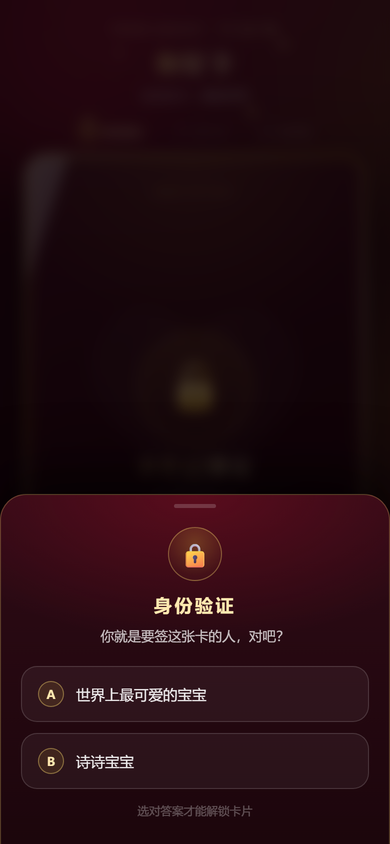
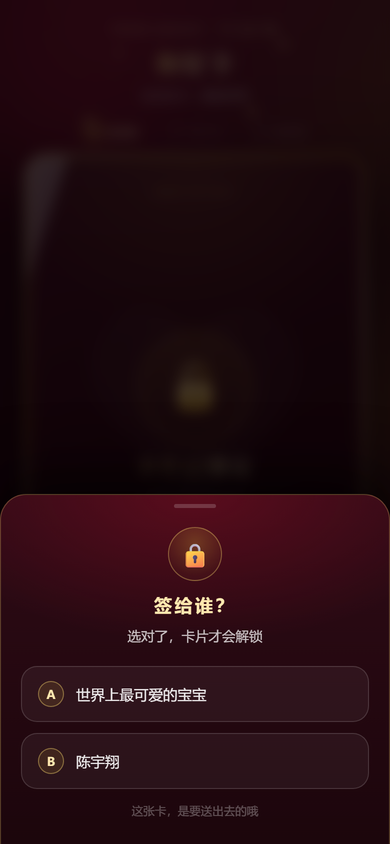
feat: 第一关改成「签给谁？」—— 让她亲手选中收卡人，不再是没意义的身份验证

Changed region(s): [[0.2462, 0.7085, 0.7077, 0.7701], [0.3385, 0.955, 0.6769, 0.9858], [0.1846, 0.8934, 0.3385, 0.9242]]

diff --git a/src/components/VerifyDialog.vue b/src/components/VerifyDialog.vue
@@ -1,6 +1,6 @@
 <script setup lang="ts">
-import { computed, ref, watch } from 'vue'
-import { ISSUER_NAME } from '../cardSpec'
+import { ref, watch } from 'vue'
+import { HOLDER_NAME } from '../cardSpec'
 
 const props = defineProps<{ open: boolean }>()
 const emit = defineEmits<{
@@ -8,16 +8,17 @@ const emit = defineEmits<{
   (e: 'pass'): void
 }>()
 
+/**
+ * 第一关：让她亲手把这张卡指定给收卡人。
+ * 「世界上最可爱的宝宝」是逗趣的干扰项 —— 选了会被温柔地纠正。
+ */
 const OPTIONS = [
   { key: 'A', text: '世界上最可爱的宝宝', correct: false },
-  { key: 'B', text: ISSUER_NAME, correct: true }
+  { key: 'B', text: HOLDER_NAME, correct: true }
 ]
 
-const ERROR_TEXT = '身份验证失败，只有宝宝才能解锁哦'
-
-const wrongCount = ref(0)
-const shaking = ref(false)
 const passed = ref(false)
+const shaking = ref(false)
 const errorText = ref('')
 const errorId = ref(0)
 const showError = ref(false)
@@ -26,15 +27,10 @@ watch(
   () => props.open,
   (open) => {
     if (!open) return
-    wrongCount.value = 0
     passed.value = false
     errorText.value = ''
     showError.value = false
   }
-)
-
-const hint = computed(() =>
-  wrongCount.value >= 3 ? '提示：正确答案里没有「最」字哦～' : '选对答案才能解锁卡片'
 )
 
 function choose(option: (typeof OPTIONS)[number]) {
@@ -48,9 +44,8 @@ function choose(option: (typeof OPTIONS)[number]) {
     return
   }
 
-  // 选错：抖动 + 弹窗提示（提示文案直接展示在弹窗内，不再重复弹 toast）
-  wrongCount.value += 1
-  errorText.value = ERROR_TEXT
+  // 选错：抖动 + 弹窗纠正
+  errorText.value = `这张卡是签给${HOLDER_NAME}的哦～`
   errorId.value += 1
   showError.value = true
 
@@ -68,8 +63,8 @@ function choose(option: (typeof OPTIONS)[number]) {
       <div v-if="open" class="dialog-mask" @click.self="emit('update:open', false)">
         <div class="dialog-panel" :class="{ 'is-shake': shaking }">
           <div class="dialog-badge">🔒</div>
-          <h2 class="dialog-title">身份验证</h2>
-          <p class="dialog-question">你就是要签这张卡的人，对吧？</p>
+          <h2 class="dialog-title">签给谁？</h2>
+          <p class="dialog-question">选对了，卡片才会解锁</p>
 
           <div class="dialog-options">
             <button
@@ -85,7 +80,7 @@ function choose(option: (typeof OPTIONS)[number]) {
             </button>
           </div>
 
-          <p class="dialog-hint" :class="{ 'dialog-hint-ghost': wrongCount < 3 }">{{ hint }}</p>
+          <p class="dialog-hint dialog-hint-ghost">这张卡，是要送出去的哦</p>
 
           <Transition name="pop">
             <div v-if="showError" :key="errorId" class="dialog-error">
@@ -97,7 +92,7 @@ function choose(option: (typeof OPTIONS)[number]) {
           <Transition name="pop">
             <div v-if="passed" class="dialog-ok">
               <span aria-hidden="true">✅</span>
-              <span>身份确认成功，正在解锁卡片…</span>
+              <span>收到，正在解锁卡片…</span>
             </div>
           </Transition>
         </div>

diff --git a/src/components/StageLock.vue b/src/components/StageLock.vue
@@ -10,7 +10,7 @@ let openTimer = 0
 let passTimer = 0
 
 onMounted(() => {
-  // 进入页面后自动弹出身份验证题
+  // 进入页面后自动弹出「签给谁」选择题
   openTimer = window.setTimeout(() => {
     open.value = true
   }, 700)
@@ -35,10 +35,10 @@ function onPass() {
 
     <p class="lock-status">
       <span class="pulse-dot" aria-hidden="true" />
-      卡片已锁定 · 等待身份验证
+      卡片已锁定 · 等一个名字
     </p>
 
-    <button type="button" class="btn btn-gold" @click="open = true">开始身份验证</button>
+    <button type="button" class="btn btn-gold" @click="open = true">去解锁卡片</button>
 
     <VerifyDialog :open="open" @update:open="open = $event" @pass="onPass" />
   </section>

diff --git a/src/components/LockedCard.vue b/src/components/LockedCard.vue
@@ -47,12 +47,12 @@
         </div>
 
         <p class="lock-title">卡片已锁定</p>
-        <p class="lock-sub">请先通过身份验证</p>
-        <span class="lock-badge">🔒 LOCKED · 需验证身份</span>
+        <p class="lock-sub">先确认这张卡送给谁</p>
+        <span class="lock-badge">🔒 LOCKED · 待署名</span>
 
         <div class="lock-foot">
           <span>NO. ✱✱✱✱-✱✱✱✱</span>
-          <span>签发人：？？？</span>
+          <span>持卡人：？？？</span>
         </div>
 
         <div class="lock-dots">• • •</div>

diff --git a/src/cardSpec.ts b/src/cardSpec.ts
@@ -12,7 +12,7 @@ export const CARD_H = 540
 /** 持卡人：收下这张卡的人（卡片「持卡人」一栏） */
 export const HOLDER_NAME = '陈宇翔'
 
-/** 签发人昵称：签这张卡送出去的人（卡片、页头、身份验证正确答案都用这个） */
+/** 签发人昵称：签这张卡送出去的人（卡片、页头都用这个） */
 export const ISSUER_NAME = '诗诗宝宝'
 
 /** 签发人全名（只出现在页脚） */

diff --git a/src/App.vue b/src/App.vue
@@ -28,7 +28,7 @@ const toastSignal = ref(0)
 const confettiCanvas = ref<HTMLCanvasElement | null>(null)
 const confetti = useConfetti(() => confettiCanvas.value)
 
-const steps = ['身份验证', '签个名', '和好啦']
+const steps = ['送给谁', '签个名', '和好啦']
 const activeStep = computed(() => (stage.value === 'locked' ? 0 : stage.value === 'card' ? 1 : 2))
 
 function toast(text: string, kind: 'error' | 'info' = 'info') {

diff --git a/src/style.css b/src/style.css
@@ -641,7 +641,7 @@ button {
 }
 
 /* ================================================================
-   身份验证弹窗
+   第一关弹窗（签给谁）
    ================================================================ */
 
 .dialog-mask {

diff --git a/README.md b/README.md
@@ -1,7 +1,7 @@
 # 和好卡 💌
 
 一个部署在 **GitHub Pages** 上的互动 H5：**她签一张「和好卡」送给你**，
-三关流程 —— 身份验证 → 3D 翻卡 → 手写签名 + 盖章生效，最后把生成的卡片图发给你。
+三关流程 —— 签给谁 → 3D 翻卡 → 手写签名 + 盖章生效，最后把生成的卡片图发给你。
 
 卡面上没有条款、没有条件，只有一颗心和一句「我们和好吧」。
 
@@ -12,9 +12,9 @@
 
 ## 📸 效果预览
 
-| 第一关 · 身份验证 | 第二关 · 卡片与签名 | 第三关 · 成品卡片 |
+| 第一关 · 签给谁 | 第二关 · 卡片与签名 | 第三关 · 成品卡片 |
 | :---: | :---: | :---: |
-| ![身份验证](docs/preview-1-lock.png) | ![签名](docs/preview-2-sign.png) | ![和好啦](docs/preview-3-card.png) |
+| ![签给谁](docs/preview-1-lock.png) | ![签名](docs/preview-2-sign.png) | ![和好啦](docs/preview-3-card.png) |
 
 ---
 
@@ -22,7 +22,7 @@
 
 | 关卡 | 内容 |
 | --- | --- |
-| 第一关 · 身份验证 | 卡片初始为**锁定状态**，自动弹出趣味选择题「你就是要签这张卡的人，对吧？」。选错会抖动并弹窗提示「身份验证失败，只有宝宝才能解锁哦」，选对才解锁。 |
+| 第一关 · 签给谁 | 卡片初始为**锁定状态**，自动弹出选择题「**签给谁？**」。她要亲手选中收卡人的名字，卡片才解锁；如果选了逗趣的干扰项，会抖动并弹窗提示「这张卡是签给陈宇翔的哦～」。 |
 | 第二关 · 卡片与签名 | 卡片 **3D 翻转入场**，展示烫金卡面（持卡人 / 签发人、描金爱心、「我们和好吧」）；底部是 HTML5 Canvas 手写签名板（鼠标 + 手机触摸都支持），提供「重签」「确认签名」。 |
 | 第三关 · 和好啦 | 点击「确认签名」后，用 Canvas 把**手写笔迹**和**「已生效」红色印章**合成绘制到卡片上，触发满屏爱心 + 烟花特效，提示「🎉 和好啦！」以及保存方式。 |
 
@@ -123,7 +123,7 @@ https://<你的用户名>.github.io/<仓库名>/
 | --- | --- |
 | 持卡人 / 签发人的名字 | `src/cardSpec.ts` 的 `HOLDER_NAME`（收卡人）、`ISSUER_NAME`（签名送卡人）、`ISSUER_FULL_NAME`（页脚全名）；页头文案在 `src/App.vue` |
 | 卡片标题 / 副标题 / 中间那句话 / 底部小字 | `src/cardSpec.ts` 的 `CARD_TITLE`、`CARD_SUBTITLE`、`CARD_MESSAGE`、`CARD_FOOTNOTE` |
-| 身份验证的题目与选项 / 错误提示 | `src/components/VerifyDialog.vue` 的 `OPTIONS` 与 `ERROR_TEXT` |
+| 第一关的题目、选项与答错提示 | `src/components/VerifyDialog.vue` 的 `OPTIONS`（`correct: true` 的那项是正确答案） |
 | 卡片标题、副标题、页脚 | `src/cardSpec.ts` 的 `CARD_TITLE` / `CARD_SUBTITLE` / `CARD_FOOTNOTE` |
 | 卡面配色、金色、印章红 | `src/cardSpec.ts` 的 `PALETTE`，以及 `src/style.css` 的 CSS 变量与类 |
 | 版式坐标（间距、字号、签名框大小） | `src/cardSpec.ts` 的 `LAYOUT`（DOM 与导出图同时生效） |
@@ -149,7 +149,7 @@ https://<你的用户名>.github.io/<仓库名>/
 │  ├─ components/
 │  │  ├─ StageLock.vue            # 第一关：锁定
 │  │  ├─ LockedCard.vue           # 卡片背面（锁定卡面）
-│  │  ├─ VerifyDialog.vue         # 身份验证弹窗
+│  │  ├─ VerifyDialog.vue         # 第一关弹窗（签给谁）
 │  │  ├─ StageCard.vue            # 第二关：翻转 + 签名
 │  │  ├─ FlipCard.vue             # 3D 翻转容器（自适应缩放）
 │  │  ├─ MakeUpCard.vue           # 卡片正面（烫金卡面 + 爱心）
